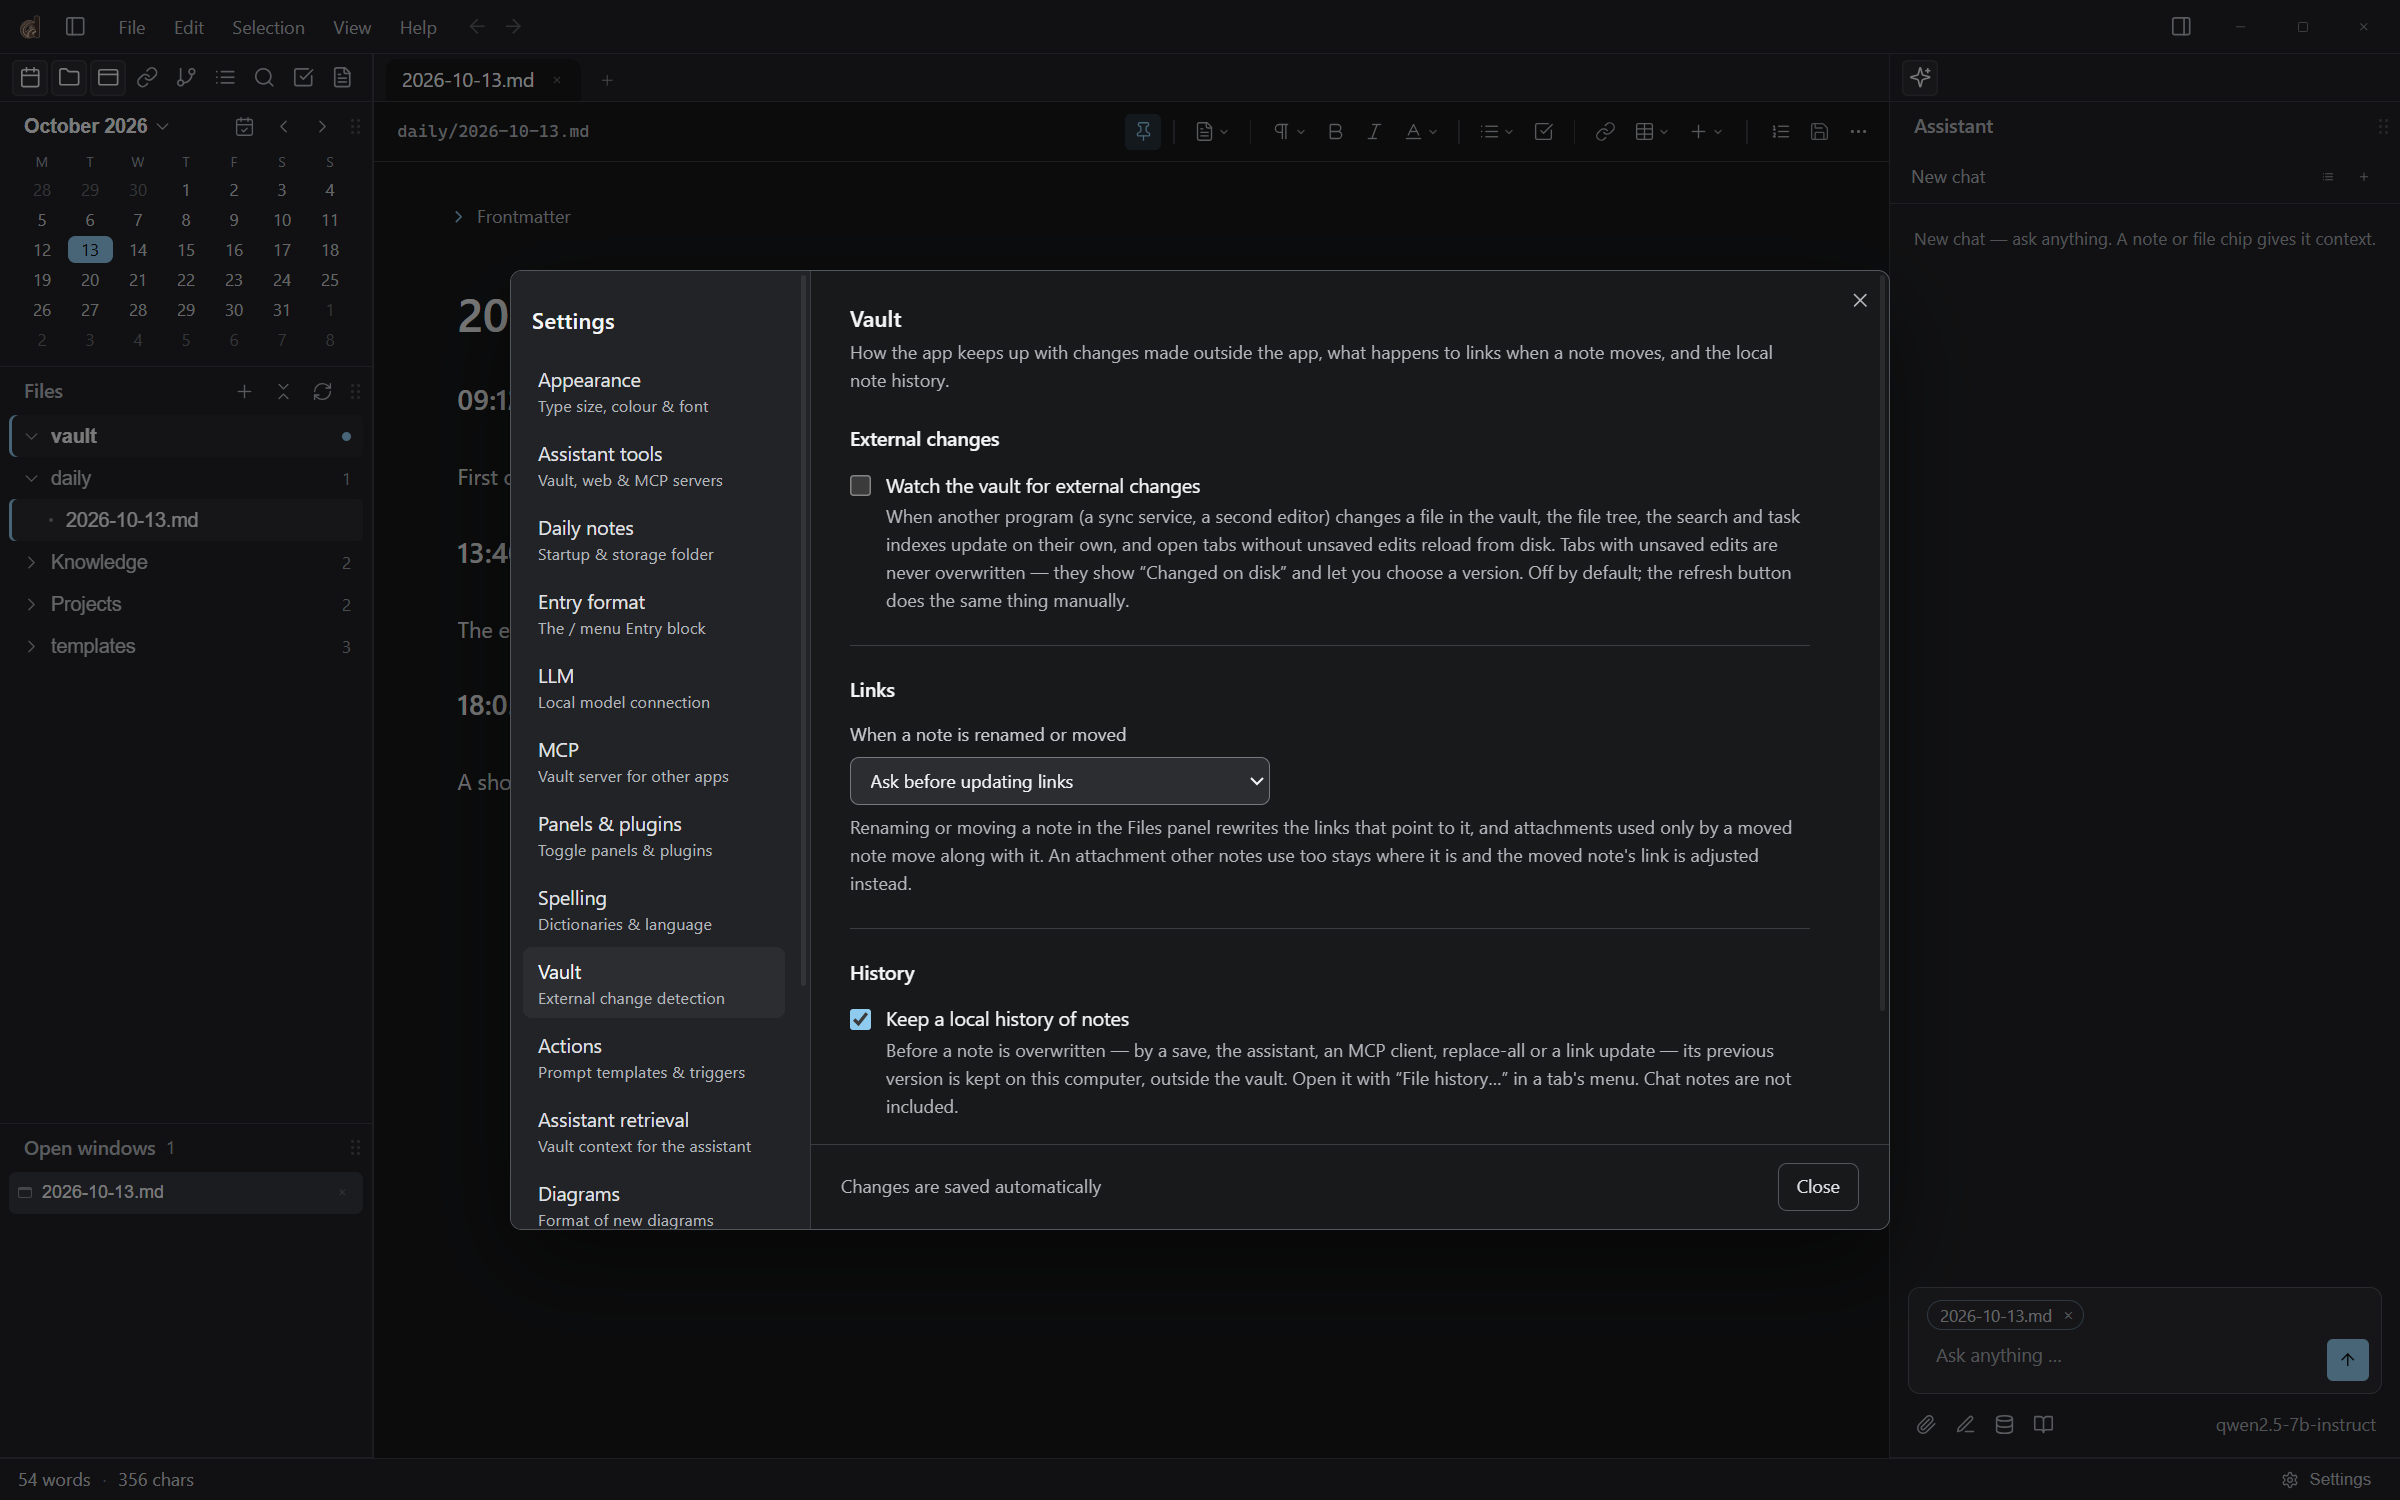
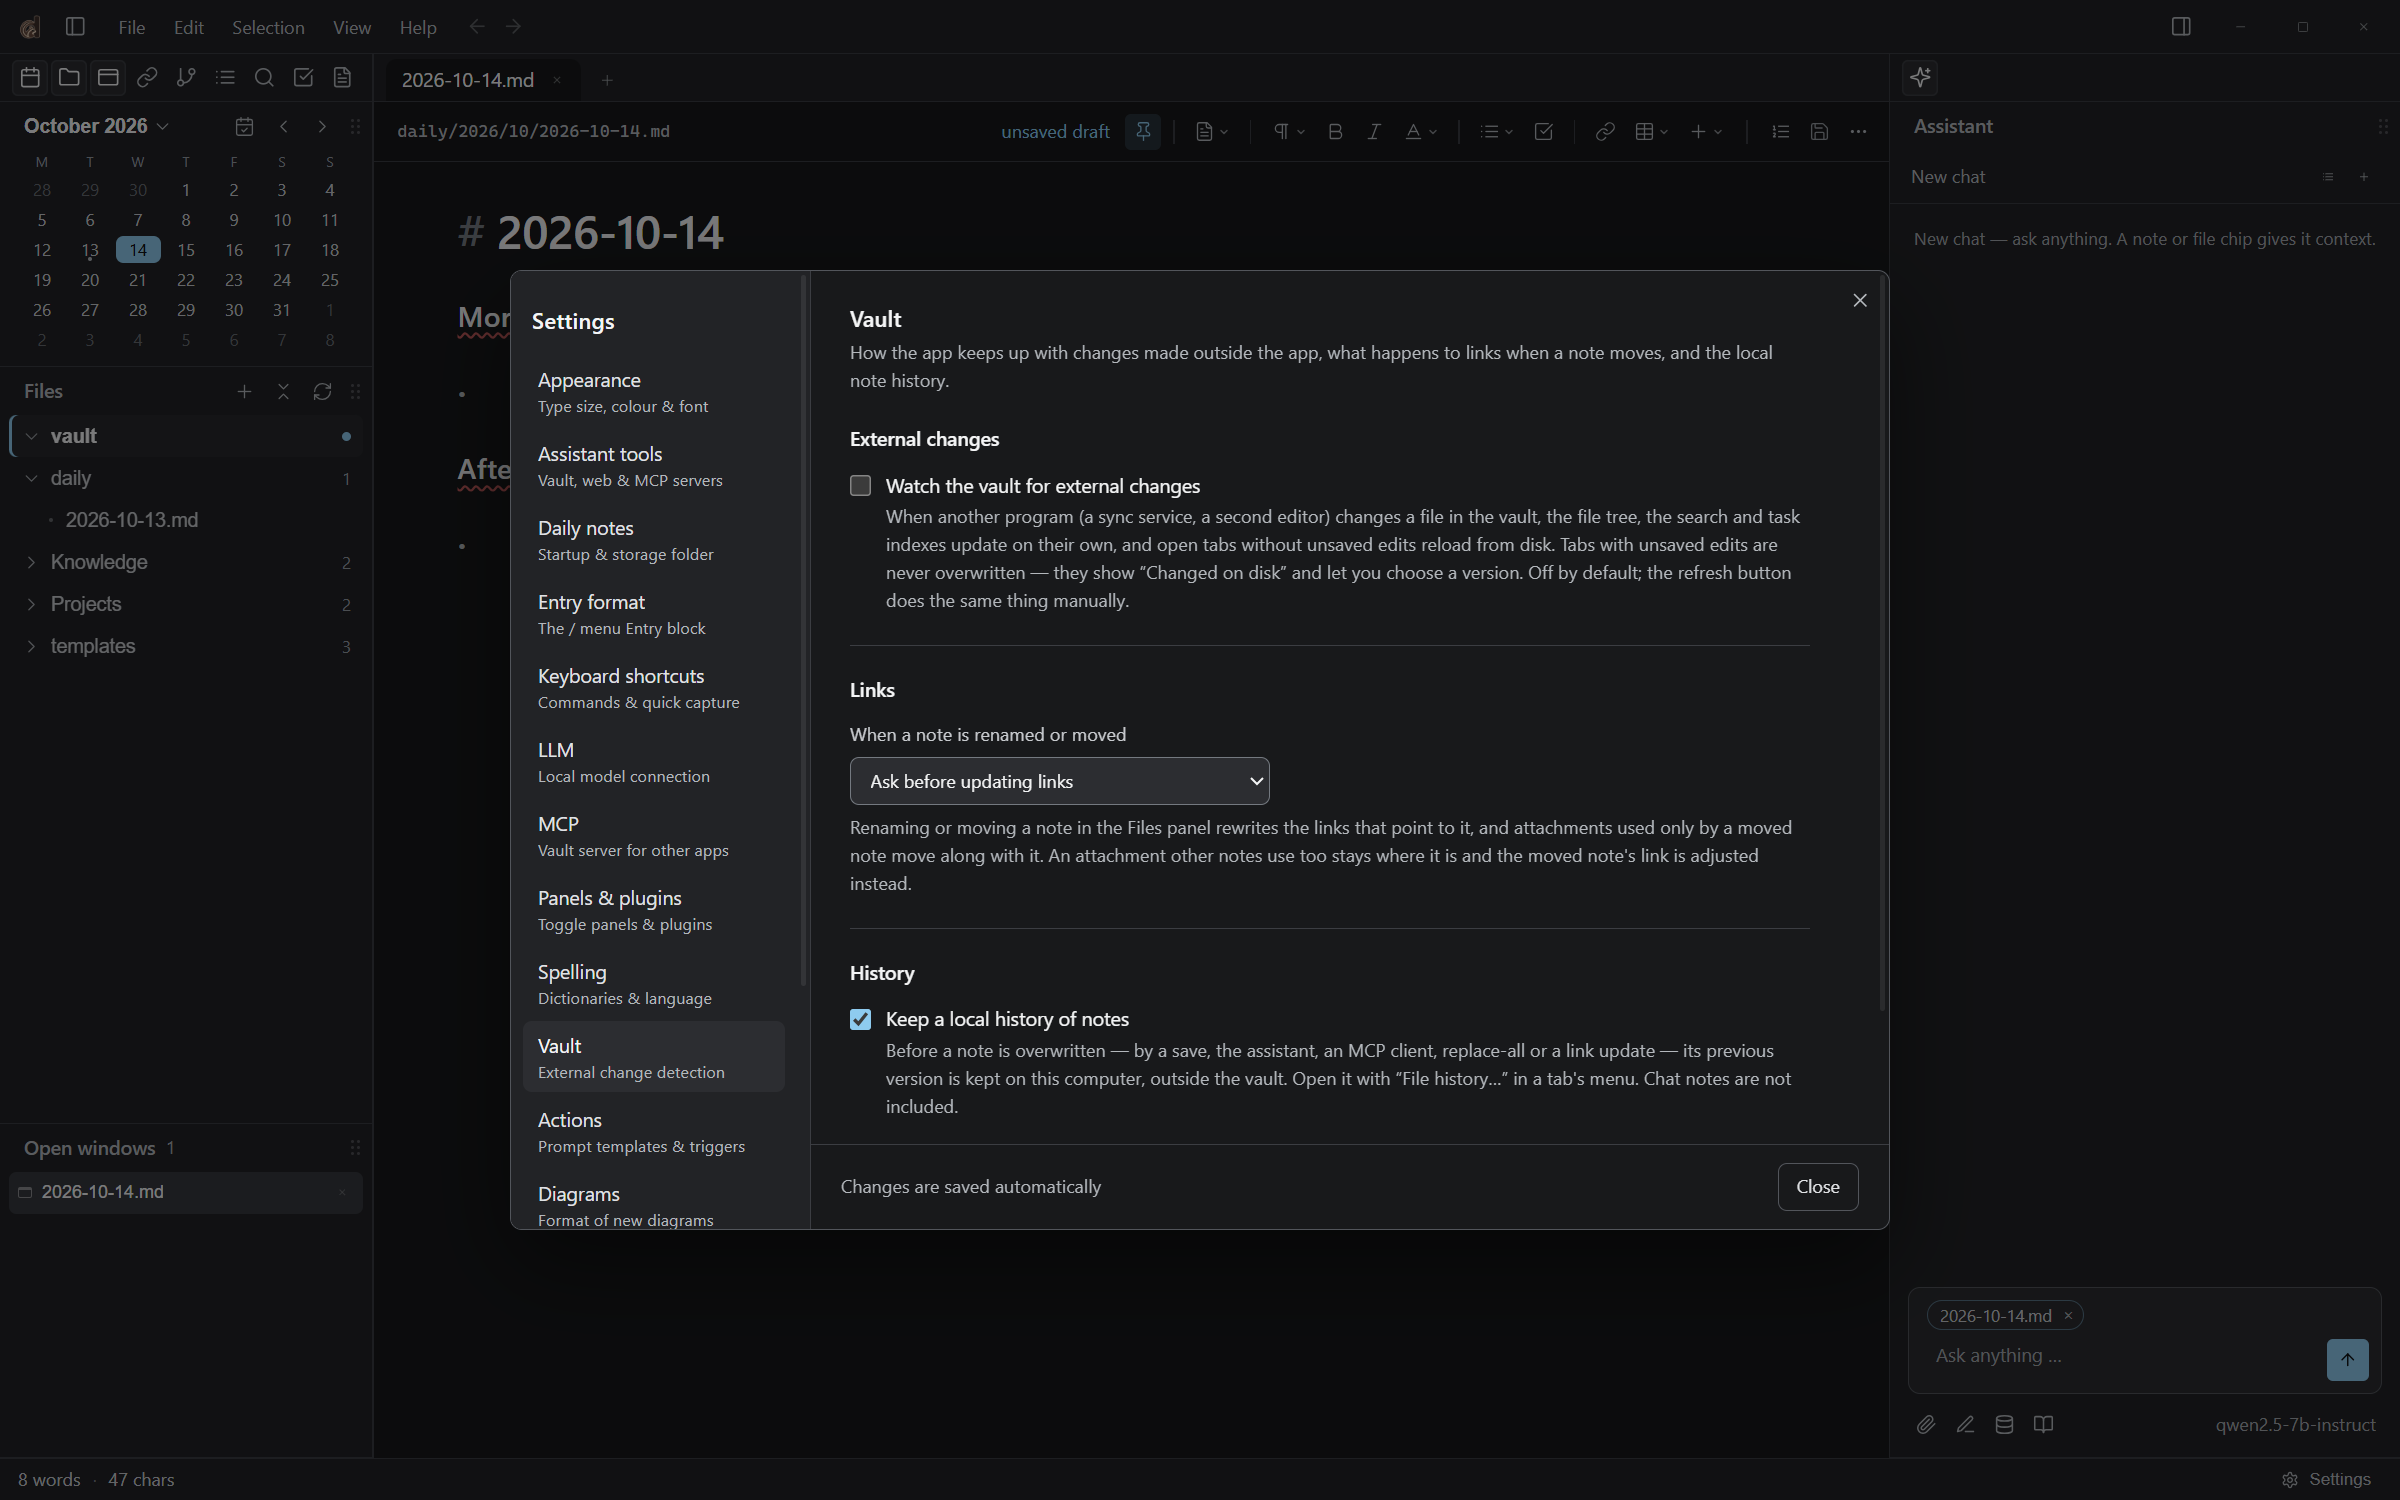
chore: regenerate the shipped manual and screenshots after the main merge

diff --git a/public/manual/manual.md b/public/manual/manual.md
@@ -807,6 +807,7 @@ stored when you leave the field or press Enter. The footer shows
 | [Assistant tools](#settings-assistant-tools) | tool groups, write/approval rules, external MCP servers |
 | [Daily notes](#settings-daily-notes) | daily folder and template behaviour |
 | [Entry format](#settings-entry-format) | the slash menu's Entry block |
+| [Keyboard shortcuts](#settings-keyboard-shortcuts) | the shortcut of every command, the quick-capture hotkey |
 | [LLM](#settings-llm) | provider, endpoint, key, model |
 | [MCP](#settings-mcp) | Drey's own vault server for other programs |
 | [Panels & plugins](#settings-panels-plugins) | panel and plugin switches, live plugin status |
@@ -845,6 +846,23 @@ The daily notes root folder (default `daily/`) and template behaviour.
 What the slash menu's **Entry** block inserts: built-in *classic* and
 *ruled* patterns or your own, with the `{{time}}` / `{{date}}` /
 `{{datetime}}` / `{{title}}` / `{{tags}}` / `{{content}}` placeholders.
+
+### Settings: Keyboard shortcuts {#settings-keyboard-shortcuts}
+
+![Keyboard shortcuts settings](img/settings-keyboard-shortcuts.png)
+
+Every command and the system-wide **quick-capture** hotkey, each with
+its shortcut. **Change** waits for you to press the new keys (Esc
+cancels); **Remove** leaves the command without a shortcut; **Reset**
+brings back the one Drey ships with. A shortcut needs `Ctrl` or `Alt`,
+or a function key (`F1`–`F12`) — a plain letter would swallow typing —
+and the editor's own keys (undo, the clipboard, find, zoom, …) cannot be
+taken; they are listed under *Fixed*. If another command already has
+the keys you press, Drey names it and offers **Replace**, which leaves
+that command without a shortcut. When another program holds the
+quick-capture keys, the row says so — choose another combination.
+Your shortcuts show everywhere at once: the menus, the command palette
+and Help → Keyboard shortcuts.
 
 ### Settings: LLM {#settings-llm}
 
@@ -913,7 +931,9 @@ brings them back.
 
 ## 20. Keyboard shortcuts
 
-`Ctrl` is `Cmd` on macOS. `Mod` below means exactly that.
+`Ctrl` is `Cmd` on macOS. `Mod` below means exactly that. These are the
+shortcuts Drey ships with; change any of them, and the quick-capture
+hotkey, in [Settings → Keyboard shortcuts](#settings-keyboard-shortcuts).
 
 | Shortcut | Action |
 | --- | --- |
@@ -937,9 +957,9 @@ brings them back.
 | `/` on an empty line | Slash menu (Entry, templates, formatting) |
 | `Esc` | Close menus, dialogs, drag operations |
 
-The command palette lists every command with its current shortcut — and
-so does Help → **Keyboard shortcuts**, as a document you can keep open
-beside your notes.
+The command palette lists every command with its current shortcut — your
+own, where you changed one — and so does Help → **Keyboard shortcuts**,
+as a document you can keep open beside your notes.
 
 ---
 
